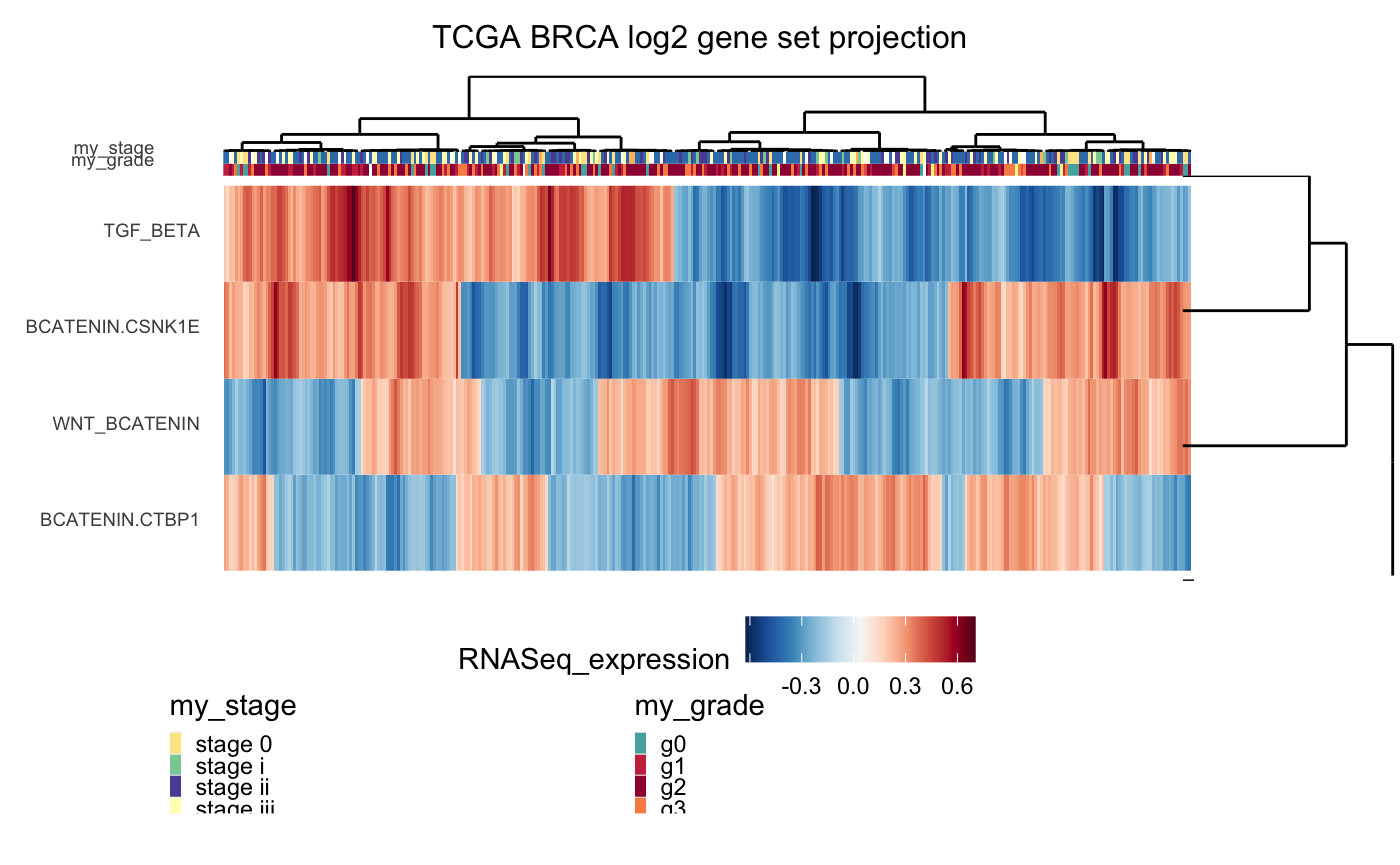
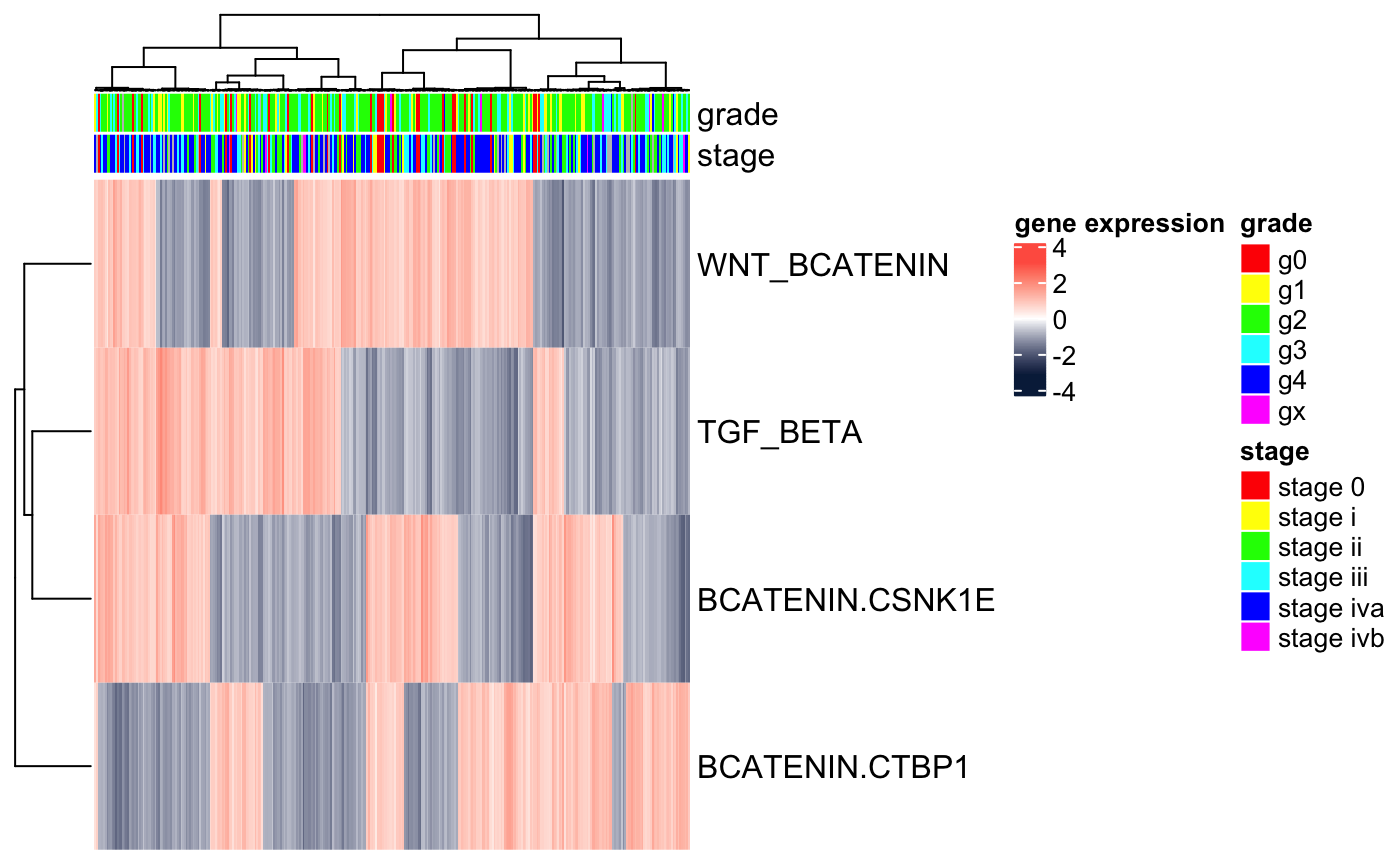
updated GeneSetProjectionGSVA

diff --git a/docs/articles/docs/GeneSetProjectionGSVA.html b/docs/articles/docs/GeneSetProjectionGSVA.html
@@ -6,19 +6,19 @@
 <meta http-equiv="X-UA-Compatible" content="IE=edge">
 <meta name="viewport" content="width=device-width, initial-scale=1.0">
 <title>Gene Set Projection based on KS • BS831</title>
-<!-- jquery --><script src="https://cdnjs.cloudflare.com/ajax/libs/jquery/3.3.1/jquery.min.js" integrity="sha256-FgpCb/KJQlLNfOu91ta32o/NMZxltwRo8QtmkMRdAu8=" crossorigin="anonymous"></script><!-- Bootstrap --><link href="https://cdnjs.cloudflare.com/ajax/libs/bootswatch/3.3.7/simplex/bootstrap.min.css" rel="stylesheet" crossorigin="anonymous">
-<script src="https://cdnjs.cloudflare.com/ajax/libs/twitter-bootstrap/3.3.7/js/bootstrap.min.js" integrity="sha256-U5ZEeKfGNOja007MMD3YBI0A3OSZOQbeG6z2f2Y0hu8=" crossorigin="anonymous"></script><!-- Font Awesome icons --><link rel="stylesheet" href="https://cdnjs.cloudflare.com/ajax/libs/font-awesome/5.7.1/css/all.min.css" integrity="sha256-nAmazAk6vS34Xqo0BSrTb+abbtFlgsFK7NKSi6o7Y78=" crossorigin="anonymous">
-<link rel="stylesheet" href="https://cdnjs.cloudflare.com/ajax/libs/font-awesome/5.7.1/css/v4-shims.min.css" integrity="sha256-6qHlizsOWFskGlwVOKuns+D1nB6ssZrHQrNj1wGplHc=" crossorigin="anonymous">
-<!-- clipboard.js --><script src="https://cdnjs.cloudflare.com/ajax/libs/clipboard.js/2.0.4/clipboard.min.js" integrity="sha256-FiZwavyI2V6+EXO1U+xzLG3IKldpiTFf3153ea9zikQ=" crossorigin="anonymous"></script><!-- headroom.js --><script src="https://cdnjs.cloudflare.com/ajax/libs/headroom/0.9.4/headroom.min.js" integrity="sha256-DJFC1kqIhelURkuza0AvYal5RxMtpzLjFhsnVIeuk+U=" crossorigin="anonymous"></script><script src="https://cdnjs.cloudflare.com/ajax/libs/headroom/0.9.4/jQuery.headroom.min.js" integrity="sha256-ZX/yNShbjqsohH1k95liqY9Gd8uOiE1S4vZc+9KQ1K4=" crossorigin="anonymous"></script><!-- pkgdown --><link href="../../pkgdown.css" rel="stylesheet">
+<!-- jquery --><script src="https://cdnjs.cloudflare.com/ajax/libs/jquery/3.4.1/jquery.min.js" integrity="sha256-CSXorXvZcTkaix6Yvo6HppcZGetbYMGWSFlBw8HfCJo=" crossorigin="anonymous"></script><!-- Bootstrap --><link href="https://cdnjs.cloudflare.com/ajax/libs/bootswatch/3.4.0/simplex/bootstrap.min.css" rel="stylesheet" crossorigin="anonymous">
+<script src="https://cdnjs.cloudflare.com/ajax/libs/twitter-bootstrap/3.4.1/js/bootstrap.min.js" integrity="sha256-nuL8/2cJ5NDSSwnKD8VqreErSWHtnEP9E7AySL+1ev4=" crossorigin="anonymous"></script><!-- bootstrap-toc --><link rel="stylesheet" href="../../bootstrap-toc.css">
+<script src="../../bootstrap-toc.js"></script><!-- Font Awesome icons --><link rel="stylesheet" href="https://cdnjs.cloudflare.com/ajax/libs/font-awesome/5.12.1/css/all.min.css" integrity="sha256-mmgLkCYLUQbXn0B1SRqzHar6dCnv9oZFPEC1g1cwlkk=" crossorigin="anonymous">
+<link rel="stylesheet" href="https://cdnjs.cloudflare.com/ajax/libs/font-awesome/5.12.1/css/v4-shims.min.css" integrity="sha256-wZjR52fzng1pJHwx4aV2AO3yyTOXrcDW7jBpJtTwVxw=" crossorigin="anonymous">
+<!-- clipboard.js --><script src="https://cdnjs.cloudflare.com/ajax/libs/clipboard.js/2.0.6/clipboard.min.js" integrity="sha256-inc5kl9MA1hkeYUt+EC3BhlIgyp/2jDIyBLS6k3UxPI=" crossorigin="anonymous"></script><!-- headroom.js --><script src="https://cdnjs.cloudflare.com/ajax/libs/headroom/0.11.0/headroom.min.js" integrity="sha256-AsUX4SJE1+yuDu5+mAVzJbuYNPHj/WroHuZ8Ir/CkE0=" crossorigin="anonymous"></script><script src="https://cdnjs.cloudflare.com/ajax/libs/headroom/0.11.0/jQuery.headroom.min.js" integrity="sha256-ZX/yNShbjqsohH1k95liqY9Gd8uOiE1S4vZc+9KQ1K4=" crossorigin="anonymous"></script><!-- pkgdown --><link href="../../pkgdown.css" rel="stylesheet">
 <script src="../../pkgdown.js"></script><meta property="og:title" content="Gene Set Projection based on KS">
-<meta property="og:description" content="">
-<meta name="twitter:card" content="summary">
+<meta property="og:description" content="BS831">
 <!-- mathjax --><script src="https://cdnjs.cloudflare.com/ajax/libs/mathjax/2.7.5/MathJax.js" integrity="sha256-nvJJv9wWKEm88qvoQl9ekL2J+k/RWIsaSScxxlsrv8k=" crossorigin="anonymous"></script><script src="https://cdnjs.cloudflare.com/ajax/libs/mathjax/2.7.5/config/TeX-AMS-MML_HTMLorMML.js" integrity="sha256-84DKXVJXs0/F8OTMzX4UR909+jtl4G7SPypPavF+GfA=" crossorigin="anonymous"></script><!--[if lt IE 9]>
 <script src="https://oss.maxcdn.com/html5shiv/3.7.3/html5shiv.min.js"></script>
 <script src="https://oss.maxcdn.com/respond/1.4.2/respond.min.js"></script>
 <![endif]-->
 </head>
-<body>
+<body data-spy="scroll" data-target="#toc">
     <div class="container template-article">
       <header><div class="navbar navbar-default navbar-fixed-top" role="navigation">
   <div class="container">
@@ -164,7 +164,7 @@
       </header><div class="row">
   <div class="col-md-9 contents">
     <div class="page-header toc-ignore">
-      <h1>Gene Set Projection based on KS</h1>
+      <h1 data-toc-skip>Gene Set Projection based on KS</h1>
                         <h4 class="author">Stefano Monti</h4>
             
       
@@ -176,19 +176,21 @@
     
     
 <p>In this module, we show how to use Kolmogorov-Smirnov (KS)-based scoring to map gene expression data to geneset expression data. The approach is useful to <em>abstract</em> from the gene level to the signature or pathway level, thus making the data more interpretable while at the same time making them more robust to potential batch-to-batch effects.</p>
-<div class="sourceCode" id="cb1"><pre class="sourceCode r"><code class="sourceCode r"><span id="cb1-1"><a href="#cb1-1"></a><span class="kw"><a href="https://rdrr.io/r/base/library.html">library</a></span>(BS831)</span>
-<span id="cb1-2"><a href="#cb1-2"></a><span class="kw"><a href="https://rdrr.io/r/base/library.html">require</a></span>(GSVA)</span>
-<span id="cb1-3"><a href="#cb1-3"></a><span class="kw"><a href="https://rdrr.io/r/base/library.html">require</a></span>(Biobase)</span>
-<span id="cb1-4"><a href="#cb1-4"></a><span class="kw"><a href="https://rdrr.io/r/base/library.html">library</a></span>(cba)</span></code></pre></div>
+<div class="sourceCode"><html><body><pre class="r"><span class="fu"><a href="https://rdrr.io/r/base/library.html">require</a></span>(<span class="no">BS831</span>)
+<span class="fu"><a href="https://rdrr.io/r/base/library.html">require</a></span>(<span class="no">GSVA</span>)
+<span class="fu"><a href="https://rdrr.io/r/base/library.html">require</a></span>(<span class="no">Biobase</span>)
+<span class="fu"><a href="https://rdrr.io/r/base/library.html">require</a></span>(<span class="no">cba</span>)
+<span class="fu"><a href="https://rdrr.io/r/base/library.html">require</a></span>(<span class="no">ComplexHeatmap</span>)
+<span class="fu"><a href="https://rdrr.io/r/base/library.html">require</a></span>(<span class="no">circlize</span>)</pre></body></html></div>
 <p>We start by requiring the necessary package and loading the data. The data consists of two objects: a “toy” expression dataset of 126 genes (<code>gsp.eSet</code>); and a list of four genesets (<code>gsp.GeneSet</code>).</p>
-<div class="sourceCode" id="cb2"><pre class="sourceCode r"><code class="sourceCode r"><span id="cb2-1"><a href="#cb2-1"></a><span class="kw"><a href="https://rdrr.io/r/utils/data.html">data</a></span>(gspData)</span>
-<span id="cb2-2"><a href="#cb2-2"></a></span>
-<span id="cb2-3"><a href="#cb2-3"></a><span class="co">## make sure the expected objects have been uploaded ..</span></span>
-<span id="cb2-4"><a href="#cb2-4"></a><span class="cf">if</span> (<span class="kw"><a href="https://rdrr.io/r/base/NULL.html">is.null</a></span>(gsp.eSet)) <span class="kw"><a href="https://rdrr.io/r/base/stop.html">stop</a></span>(<span class="st">"is.null(gsp.eSet)"</span>)</span>
-<span id="cb2-5"><a href="#cb2-5"></a><span class="cf">if</span> (<span class="kw"><a href="https://rdrr.io/r/base/NULL.html">is.null</a></span>(gsp.GeneSet)) <span class="kw"><a href="https://rdrr.io/r/base/stop.html">stop</a></span>(<span class="st">"is.null(gsp.GeneSet)"</span>)</span>
-<span id="cb2-6"><a href="#cb2-6"></a></span>
-<span id="cb2-7"><a href="#cb2-7"></a><span class="co">## show the size of the genesets and of the expression dataset</span></span>
-<span id="cb2-8"><a href="#cb2-8"></a><span class="kw"><a href="https://rdrr.io/r/base/print.html">print</a></span>(<span class="kw"><a href="https://rdrr.io/r/base/lapply.html">sapply</a></span>(<span class="kw">getGeneSet</span>(gsp.GeneSet),length))</span></code></pre></div>
+<div class="sourceCode"><html><body><pre class="r"><span class="fu"><a href="https://rdrr.io/r/utils/data.html">data</a></span>(<span class="no">gspData</span>)
+
+<span class="co">## make sure the expected objects have been uploaded ..</span>
+<span class="kw">if</span> (<span class="fu"><a href="https://rdrr.io/r/base/NULL.html">is.null</a></span>(<span class="no">gsp.eSet</span>)) <span class="fu"><a href="https://rdrr.io/r/base/stop.html">stop</a></span>(<span class="st">"is.null(gsp.eSet)"</span>)
+<span class="kw">if</span> (<span class="fu"><a href="https://rdrr.io/r/base/NULL.html">is.null</a></span>(<span class="no">gsp.GeneSet</span>)) <span class="fu"><a href="https://rdrr.io/r/base/stop.html">stop</a></span>(<span class="st">"is.null(gsp.GeneSet)"</span>)
+
+<span class="co">## show the size of the genesets and of the expression dataset</span>
+<span class="fu"><a href="https://rdrr.io/r/base/print.html">print</a></span>(<span class="fu"><a href="https://rdrr.io/r/base/lapply.html">sapply</a></span>(<span class="kw pkg">BS831</span><span class="kw ns">::</span><span class="fu">getGeneSet</span>(<span class="no">gsp.GeneSet</span>),<span class="no">length</span>))</pre></body></html></div>
 <pre><code>##                                                      ST_WNT_BETA_CATENIN_PATHWAY 
 ##                                                                               34 
 ##                                                      PID_BETACATENIN_DEG_PATHWAY 
@@ -197,52 +199,64 @@
 ##                                                                               80 
 ## REACTOME_TGF_BETA_RECEPTOR_SIGNALING_IN_EMT_EPITHELIAL_TO_MESENCHYMAL_TRANSITION 
 ##                                                                               16</code></pre>
-<div class="sourceCode" id="cb4"><pre class="sourceCode r"><code class="sourceCode r"><span id="cb4-1"><a href="#cb4-1"></a><span class="kw"><a href="https://rdrr.io/r/base/print.html">print</a></span>(<span class="kw"><a href="https://rdrr.io/r/base/dim.html">dim</a></span>(gsp.eSet))</span></code></pre></div>
+<div class="sourceCode"><html><body><pre class="r"><span class="fu"><a href="https://rdrr.io/r/base/print.html">print</a></span>(<span class="fu"><a href="https://rdrr.io/r/base/dim.html">dim</a></span>(<span class="no">gsp.eSet</span>))</pre></body></html></div>
 <pre><code>## Features  Samples 
 ##      126      346</code></pre>
 <p>We then rename the dataset rows, so as to have them indexed by gene symbols.</p>
-<div class="sourceCode" id="cb6"><pre class="sourceCode r"><code class="sourceCode r"><span id="cb6-1"><a href="#cb6-1"></a>DAT1 &lt;-<span class="st"> </span>gsp.eSet[<span class="kw"><a href="https://rdrr.io/pkg/Biobase/man/featureData.html">fData</a></span>(gsp.eSet)[,<span class="st">"symbol"</span>]<span class="op">!=</span><span class="st">""</span>,]     <span class="co"># eliminate rows w/o gene symbols</span></span>
-<span id="cb6-2"><a href="#cb6-2"></a>Biobase<span class="op">::</span><span class="kw"><a href="https://rdrr.io/pkg/Biobase/man/exprs.html">exprs</a></span>(DAT1) &lt;-<span class="st"> </span><span class="kw"><a href="https://rdrr.io/r/base/Log.html">log2</a></span>(Biobase<span class="op">::</span><span class="kw"><a href="https://rdrr.io/pkg/Biobase/man/exprs.html">exprs</a></span>(DAT1)<span class="op">+</span><span class="dv">1</span>)                    <span class="co"># log-transform the data</span></span>
-<span id="cb6-3"><a href="#cb6-3"></a><span class="kw"><a href="https://rdrr.io/pkg/Biobase/man/featureNames.html">featureNames</a></span>(DAT1) &lt;-<span class="st"> </span><span class="kw"><a href="https://rdrr.io/r/base/chartr.html">toupper</a></span>(<span class="kw"><a href="https://rdrr.io/pkg/Biobase/man/featureData.html">fData</a></span>(DAT1)[,<span class="st">"symbol"</span>]) <span class="co"># replace row names</span></span></code></pre></div>
+<div class="sourceCode"><html><body><pre class="r"><span class="no">DAT1</span> <span class="kw">&lt;-</span> <span class="no">gsp.eSet</span>[<span class="fu"><a href="https://rdrr.io/pkg/Biobase/man/featureData.html">fData</a></span>(<span class="no">gsp.eSet</span>)[,<span class="st">"symbol"</span>]<span class="kw">!=</span><span class="st">""</span>,]     <span class="co"># eliminate rows w/o gene symbols</span>
+<span class="kw pkg">Biobase</span><span class="kw ns">::</span><span class="fu"><a href="https://rdrr.io/pkg/Biobase/man/exprs.html">exprs</a></span>(<span class="no">DAT1</span>) <span class="kw">&lt;-</span> <span class="fu"><a href="https://rdrr.io/r/base/Log.html">log2</a></span>(<span class="kw pkg">Biobase</span><span class="kw ns">::</span><span class="fu"><a href="https://rdrr.io/pkg/Biobase/man/exprs.html">exprs</a></span>(<span class="no">DAT1</span>)+<span class="fl">1</span>)  <span class="co"># log-transform the data</span>
+<span class="fu"><a href="https://rdrr.io/pkg/Biobase/man/featureNames.html">featureNames</a></span>(<span class="no">DAT1</span>) <span class="kw">&lt;-</span> <span class="fu"><a href="https://rdrr.io/r/base/chartr.html">toupper</a></span>(<span class="fu"><a href="https://rdrr.io/pkg/Biobase/man/featureData.html">fData</a></span>(<span class="no">DAT1</span>)[,<span class="st">"symbol"</span>]) <span class="co"># replace row names</span>
+<span class="no">DAT1</span>$<span class="no">my_grade</span> <span class="kw">&lt;-</span> <span class="fu"><a href="https://rdrr.io/r/base/factor.html">factor</a></span>(<span class="no">DAT1</span>$<span class="no">my_grade</span>)
+<span class="no">DAT1</span>$<span class="no">my_stage</span> <span class="kw">&lt;-</span> <span class="fu"><a href="https://rdrr.io/r/base/factor.html">factor</a></span>(<span class="no">DAT1</span>$<span class="no">my_stage</span>)</pre></body></html></div>
 <p>We next visualize the raw, gene-level, data. We use the heatmap function avaliable from <em>heatmap.ggplot.R</em>.</p>
-<div class="sourceCode" id="cb7"><pre class="sourceCode r"><code class="sourceCode r"><span id="cb7-1"><a href="#cb7-1"></a>gradeID &lt;-<span class="st"> 'my_grade'</span></span>
-<span id="cb7-2"><a href="#cb7-2"></a>stageID &lt;-<span class="st"> 'my_stage'</span></span>
-<span id="cb7-3"><a href="#cb7-3"></a>p1 &lt;-<span class="st"> </span><span class="kw"><a href="../../reference/heatmap.ggplot2.html">heatmap.ggplot2</a></span>(<span class="dt">eSet=</span>DAT1,<span class="dt">col.clust=</span><span class="ot">TRUE</span>,<span class="dt">row.clust=</span><span class="ot">TRUE</span>,</span>
-<span id="cb7-4"><a href="#cb7-4"></a>                      <span class="dt">col.lab=</span><span class="kw"><a href="https://rdrr.io/r/base/c.html">c</a></span>(gradeID,stageID),<span class="dt">row.lab=</span><span class="st">""</span>,</span>
-<span id="cb7-5"><a href="#cb7-5"></a>                      <span class="dt">heatmap.y.text=</span><span class="ot">TRUE</span>, <span class="dt">heatmap.x.text=</span><span class="ot">FALSE</span>,</span>
-<span id="cb7-6"><a href="#cb7-6"></a>                      <span class="dt">heatmap.colorlegend.name=</span><span class="st">"RNASeq_expression"</span>,</span>
-<span id="cb7-7"><a href="#cb7-7"></a>                      <span class="dt">title.text=</span><span class="st">"TCGA BRCA log2 gene expression"</span>,</span>
-<span id="cb7-8"><a href="#cb7-8"></a>                      <span class="dt">col.legend.name=</span><span class="kw"><a href="https://rdrr.io/r/base/c.html">c</a></span>(gradeID,stageID), <span class="dt">row.legend.name=</span><span class="st">""</span>, </span>
-<span id="cb7-9"><a href="#cb7-9"></a>                      <span class="dt">row.scaling=</span><span class="st">"z-score.capped"</span>,<span class="dt">z.norm=</span><span class="ot">FALSE</span>, </span>
-<span id="cb7-10"><a href="#cb7-10"></a>                      <span class="dt">cuttree.col=</span><span class="dv">0</span>, <span class="dt">cuttree.row=</span><span class="dv">0</span>,</span>
-<span id="cb7-11"><a href="#cb7-11"></a>                      <span class="dt">verbose=</span><span class="ot">FALSE</span>, <span class="dt">show=</span><span class="ot">TRUE</span>)</span>
-<span id="cb7-12"><a href="#cb7-12"></a><span class="kw">grid.arrange</span>(p1)</span></code></pre></div>
+<div class="sourceCode"><html><body><pre class="r"><span class="no">grade_col</span> <span class="kw">&lt;-</span> <span class="fu"><a href="https://rdrr.io/r/grDevices/palettes.html">rainbow</a></span>(<span class="kw">n</span><span class="kw">=</span><span class="fu"><a href="https://rdrr.io/r/base/nlevels.html">nlevels</a></span>(<span class="no">DAT1</span>$<span class="no">my_grade</span>)); <span class="fu"><a href="https://rdrr.io/r/base/names.html">names</a></span>(<span class="no">grade_col</span>) <span class="kw">&lt;-</span> <span class="fu"><a href="https://rdrr.io/r/base/levels.html">levels</a></span>(<span class="no">DAT1</span>$<span class="no">my_grade</span>)
+<span class="no">stage_col</span> <span class="kw">&lt;-</span> <span class="fu"><a href="https://rdrr.io/r/grDevices/palettes.html">rainbow</a></span>(<span class="kw">n</span><span class="kw">=</span><span class="fu"><a href="https://rdrr.io/r/base/nlevels.html">nlevels</a></span>(<span class="no">DAT1</span>$<span class="no">my_stage</span>)); <span class="fu"><a href="https://rdrr.io/r/base/names.html">names</a></span>(<span class="no">stage_col</span>) <span class="kw">&lt;-</span> <span class="fu"><a href="https://rdrr.io/r/base/levels.html">levels</a></span>(<span class="no">DAT1</span>$<span class="no">my_stage</span>)
+<span class="no">ha.genes</span> <span class="kw">&lt;-</span> <span class="fu"><a href="https://rdrr.io/pkg/ComplexHeatmap/man/HeatmapAnnotation.html">HeatmapAnnotation</a></span>(<span class="kw">grade</span><span class="kw">=</span><span class="no">DAT1</span>$<span class="no">my_grade</span>,
+                              <span class="kw">stage</span><span class="kw">=</span><span class="no">DAT1</span>$<span class="no">my_stage</span>,
+                              <span class="kw">col</span><span class="kw">=</span><span class="fu"><a href="https://rdrr.io/r/base/list.html">list</a></span>(<span class="kw">grade</span><span class="kw">=</span><span class="no">grade_col</span>,<span class="kw">stage</span><span class="kw">=</span><span class="no">stage_col</span>))
+
+<span class="fu"><a href="https://rdrr.io/pkg/ComplexHeatmap/man/Heatmap.html">Heatmap</a></span>(<span class="fu"><a href="https://rdrr.io/r/base/t.html">t</a></span>(<span class="fu"><a href="https://rdrr.io/r/base/scale.html">scale</a></span>(<span class="fu"><a href="https://rdrr.io/r/base/t.html">t</a></span>(<span class="fu"><a href="https://rdrr.io/pkg/Biobase/man/exprs.html">exprs</a></span>(<span class="no">DAT1</span>)))),
+        <span class="kw">name</span><span class="kw">=</span><span class="st">"gene expression"</span>,
+        <span class="kw">col</span><span class="kw">=</span><span class="fu"><a href="https://rdrr.io/pkg/circlize/man/colorRamp2.html">colorRamp2</a></span>(<span class="fu"><a href="https://rdrr.io/r/base/c.html">c</a></span>(-<span class="fl">3</span>, <span class="fl">0</span>, <span class="fl">3</span>), <span class="fu"><a href="https://rdrr.io/r/base/c.html">c</a></span>(<span class="st">"#072448"</span>, <span class="st">"white"</span>, <span class="st">"#ff6150"</span>)),
+        <span class="kw">top_annotation</span><span class="kw">=</span><span class="no">ha.genes</span>,
+        <span class="kw">cluster_rows</span><span class="kw">=</span><span class="fl">TRUE</span>,
+        <span class="kw">cluster_columns</span><span class="kw">=</span><span class="fl">TRUE</span>,
+        <span class="kw">clustering_distance_rows</span><span class="kw">=</span><span class="st">"euclidean"</span>,
+        <span class="kw">clustering_method_rows</span><span class="kw">=</span><span class="st">"ward.D"</span>,
+        <span class="kw">clustering_distance_columns</span><span class="kw">=</span><span class="st">"euclidean"</span>,
+        <span class="kw">clustering_method_columns</span><span class="kw">=</span><span class="st">"ward.D"</span>,
+        <span class="kw">show_parent_dend_line</span><span class="kw">=</span><span class="fl">TRUE</span>,
+        <span class="kw">row_title</span><span class="kw">=</span><span class="st">""</span>,
+        <span class="kw">show_column_names</span><span class="kw">=</span><span class="fl">FALSE</span>,
+        <span class="kw">show_row_names</span><span class="kw">=</span><span class="fl">FALSE</span>)</pre></body></html></div>
 <p><img src="GeneSetProjectionGSVA_files/figure-html/visualize_raw-1.png" width="700"></p>
 <p>We next use the package <code>gsva</code> to perform single sample geneset projection.</p>
-<div class="sourceCode" id="cb8"><pre class="sourceCode r"><code class="sourceCode r"><span id="cb8-1"><a href="#cb8-1"></a>GSPdir &lt;-<span class="st"> </span><span class="kw"><a href="https://rdrr.io/pkg/GSVA/man/gsva.html">gsva</a></span>(DAT1, <span class="kw">getGeneSet</span>(gsp.GeneSet), <span class="dt">mx.diff=</span><span class="ot">FALSE</span>, <span class="dt">verbose=</span><span class="ot">FALSE</span>, <span class="dt">parallel.sz=</span><span class="dv">1</span>)</span>
-<span id="cb8-2"><a href="#cb8-2"></a><span class="co">## extract the ExpressionSet</span></span>
-<span id="cb8-3"><a href="#cb8-3"></a><span class="kw"><a href="https://rdrr.io/r/base/print.html">print</a></span>(<span class="kw"><a href="https://rdrr.io/r/base/dim.html">dim</a></span>(GSPdir))</span></code></pre></div>
+<div class="sourceCode"><html><body><pre class="r"><span class="no">GSPdir</span> <span class="kw">&lt;-</span> <span class="fu"><a href="https://rdrr.io/pkg/GSVA/man/gsva.html">gsva</a></span>(<span class="no">DAT1</span>, <span class="fu">getGeneSet</span>(<span class="no">gsp.GeneSet</span>), <span class="kw">mx.diff</span><span class="kw">=</span><span class="fl">FALSE</span>, <span class="kw">verbose</span><span class="kw">=</span><span class="fl">FALSE</span>, <span class="kw">parallel.sz</span><span class="kw">=</span><span class="fl">1</span>)
+<span class="co">## extract the ExpressionSet</span>
+<span class="fu"><a href="https://rdrr.io/r/base/print.html">print</a></span>(<span class="fu"><a href="https://rdrr.io/r/base/dim.html">dim</a></span>(<span class="no">GSPdir</span>))</pre></body></html></div>
 <pre><code>## Features  Samples 
 ##        4      346</code></pre>
 <p>.. and visualize the results. In this toy example, we projected onto four genesets only. In reality, one can use an entire geneset compendium (e.g., all genesets in MSigDB’s <a href="http://software.broadinstitute.org/gsea/msigdb/genesets.jsp?collection=CP">c2.cp</a> compendium) to obtain a richer output.</p>
-<div class="sourceCode" id="cb10"><pre class="sourceCode r"><code class="sourceCode r"><span id="cb10-1"><a href="#cb10-1"></a>gradeID &lt;-<span class="st"> 'my_grade'</span></span>
-<span id="cb10-2"><a href="#cb10-2"></a>stageID &lt;-<span class="st"> 'my_stage'</span></span>
-<span id="cb10-3"><a href="#cb10-3"></a><span class="co">## shorten the geneset names</span></span>
-<span id="cb10-4"><a href="#cb10-4"></a><span class="kw"><a href="https://rdrr.io/pkg/Biobase/man/featureNames.html">featureNames</a></span>(GSPdir) &lt;-<span class="st"> </span><span class="kw"><a href="https://rdrr.io/r/base/c.html">c</a></span>(<span class="st">"WNT_BCATENIN"</span>,<span class="st">"BCATENIN.CSNK1E"</span>,<span class="st">"BCATENIN.CTBP1"</span>,<span class="st">"TGF_BETA"</span>)</span>
-<span id="cb10-5"><a href="#cb10-5"></a>p2 &lt;-<span class="st"> </span><span class="kw"><a href="../../reference/heatmap.ggplot2.html">heatmap.ggplot2</a></span>(<span class="dt">eSet=</span>GSPdir,<span class="dt">col.clust=</span><span class="ot">TRUE</span>,<span class="dt">row.clust=</span><span class="ot">TRUE</span>,</span>
-<span id="cb10-6"><a href="#cb10-6"></a>                      <span class="dt">col.lab=</span><span class="kw"><a href="https://rdrr.io/r/base/c.html">c</a></span>(gradeID,stageID),<span class="dt">row.lab=</span><span class="st">""</span>,</span>
-<span id="cb10-7"><a href="#cb10-7"></a>                      <span class="dt">heatmap.y.text=</span><span class="ot">TRUE</span>, <span class="dt">heatmap.x.text=</span><span class="ot">FALSE</span>,</span>
-<span id="cb10-8"><a href="#cb10-8"></a>                      <span class="dt">heatmap.colorlegend.name=</span><span class="st">"RNASeq_expression"</span>,</span>
-<span id="cb10-9"><a href="#cb10-9"></a>                      <span class="dt">title.text=</span><span class="st">"TCGA BRCA log2 gene set projection"</span>,</span>
-<span id="cb10-10"><a href="#cb10-10"></a>                      <span class="dt">col.legend.name=</span><span class="kw"><a href="https://rdrr.io/r/base/c.html">c</a></span>(gradeID,stageID), <span class="dt">row.legend.name=</span><span class="st">""</span>, </span>
-<span id="cb10-11"><a href="#cb10-11"></a>                      <span class="dt">row.scaling=</span><span class="st">"none"</span>,<span class="dt">z.norm=</span><span class="ot">FALSE</span>, </span>
-<span id="cb10-12"><a href="#cb10-12"></a>                      <span class="dt">cuttree.col=</span><span class="dv">0</span>, <span class="dt">cuttree.row=</span><span class="dv">0</span>, </span>
-<span id="cb10-13"><a href="#cb10-13"></a>                      <span class="dt">verbose=</span><span class="ot">FALSE</span>, <span class="dt">show=</span><span class="ot">TRUE</span>)</span>
-<span id="cb10-14"><a href="#cb10-14"></a><span class="kw">grid.arrange</span>(p2)</span></code></pre></div>
+<div class="sourceCode"><html><body><pre class="r"><span class="fu"><a href="https://rdrr.io/pkg/Biobase/man/featureNames.html">featureNames</a></span>(<span class="no">GSPdir</span>) <span class="kw">&lt;-</span> <span class="fu"><a href="https://rdrr.io/r/base/c.html">c</a></span>(<span class="st">"WNT_BCATENIN"</span>,<span class="st">"BCATENIN.CSNK1E"</span>,<span class="st">"BCATENIN.CTBP1"</span>,<span class="st">"TGF_BETA"</span>)
+
+<span class="fu"><a href="https://rdrr.io/pkg/ComplexHeatmap/man/Heatmap.html">Heatmap</a></span>(<span class="fu"><a href="https://rdrr.io/r/base/t.html">t</a></span>(<span class="fu"><a href="https://rdrr.io/r/base/scale.html">scale</a></span>(<span class="fu"><a href="https://rdrr.io/r/base/t.html">t</a></span>(<span class="fu"><a href="https://rdrr.io/pkg/Biobase/man/exprs.html">exprs</a></span>(<span class="no">GSPdir</span>)))),
+        <span class="kw">name</span><span class="kw">=</span><span class="st">"gene expression"</span>,
+        <span class="kw">col</span><span class="kw">=</span><span class="fu"><a href="https://rdrr.io/pkg/circlize/man/colorRamp2.html">colorRamp2</a></span>(<span class="fu"><a href="https://rdrr.io/r/base/c.html">c</a></span>(-<span class="fl">3</span>, <span class="fl">0</span>, <span class="fl">3</span>), <span class="fu"><a href="https://rdrr.io/r/base/c.html">c</a></span>(<span class="st">"#072448"</span>, <span class="st">"white"</span>, <span class="st">"#ff6150"</span>)),
+        <span class="kw">top_annotation</span><span class="kw">=</span><span class="no">ha.genes</span>,
+        <span class="kw">cluster_rows</span><span class="kw">=</span><span class="fl">TRUE</span>,
+        <span class="kw">cluster_columns</span><span class="kw">=</span><span class="fl">TRUE</span>,
+        <span class="kw">clustering_distance_rows</span><span class="kw">=</span><span class="st">"euclidean"</span>,
+        <span class="kw">clustering_method_rows</span><span class="kw">=</span><span class="st">"ward.D"</span>,
+        <span class="kw">clustering_distance_columns</span><span class="kw">=</span><span class="st">"euclidean"</span>,
+        <span class="kw">clustering_method_columns</span><span class="kw">=</span><span class="st">"ward.D"</span>,
+        <span class="kw">show_parent_dend_line</span><span class="kw">=</span><span class="fl">TRUE</span>,
+        <span class="kw">row_title</span><span class="kw">=</span><span class="st">""</span>,
+        <span class="kw">show_column_names</span><span class="kw">=</span><span class="fl">FALSE</span>,
+        <span class="kw">show_row_names</span><span class="kw">=</span><span class="fl">TRUE</span>)</pre></body></html></div>
 <p><img src="GeneSetProjectionGSVA_files/figure-html/visualize-1.png" width="700"></p>
   </div>
 
-  <div class="col-md-3 hidden-xs hidden-sm" id="sidebar">
+  <div class="col-md-3 hidden-xs hidden-sm" id="pkgdown-sidebar">
 
       </div>
 
@@ -251,11 +265,11 @@
 
 
       <footer><div class="copyright">
-  <p>Developed by <a href="https://github.com/tetomonti">Stefano Monti</a>, <a href="https://github.com/lia978">Amy Li</a>, <a href="https://github.com/ericreed">Eric Reed</a>, <a href="https://github.com/anfederico">Anthony Federico</a>.</p>
+  <p>Developed by <a href="https://github.com/tetomonti">Stefano Monti</a>, <a href="https://github.com/anfederico">Anthony Federico</a>, <a href="https://github.com/ericreed">Eric Reed</a>, <a href="https://github.com/lia978">Amy Li</a>.</p>
 </div>
 
 <div class="pkgdown">
-  <p>Site built with <a href="https://pkgdown.r-lib.org/">pkgdown</a> 1.4.1.</p>
+  <p>Site built with <a href="https://pkgdown.r-lib.org/">pkgdown</a> 1.5.0.</p>
 </div>
 
       </footer>
